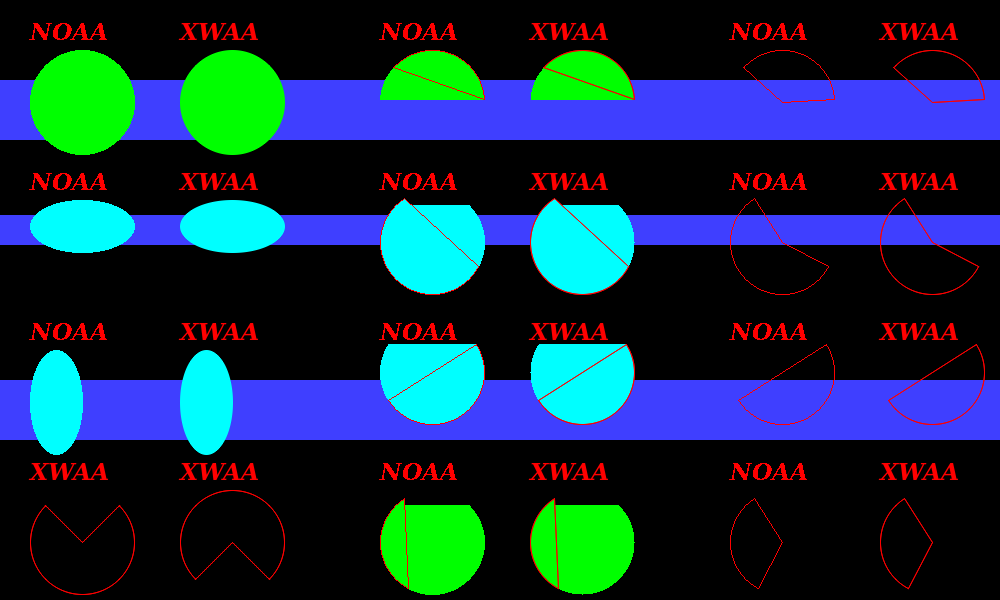
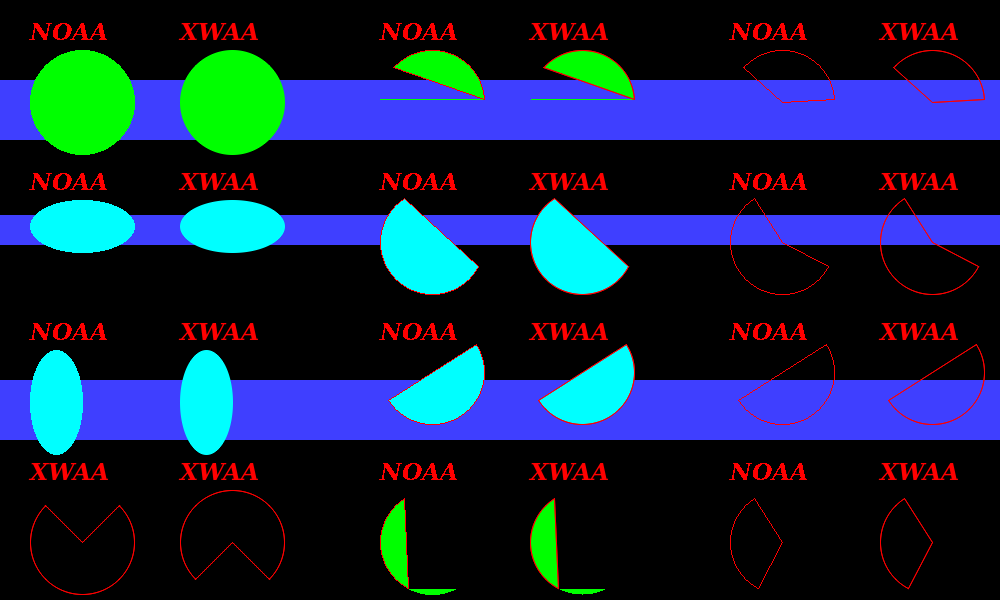
Working on fillArc

diff --git a/src/Pt-Gfx/ImagePainter2_Arc.cpp b/src/Pt-Gfx/ImagePainter2_Arc.cpp
@@ -278,24 +278,26 @@ void ImagePainter2::arcUtil_genScanlinesForChord(FilledArcInfo& fai, XWLineData&
         if( (!xwLine.faceT && !xwLine.faceB) || (xwLine.faceT && yt >= lineMinY) || (xwLine.faceB && yt <= lineMaxY) ) {
             // Crop the coordinates
             XWLineData::XWPoints::iterator lit = xwLine.points.find(yt);
-            Pt::int32_t xlc = xl;
-            Pt::int32_t xrc = xr;
-            if(xwLine.faceL) {
-                if(xwLine.steep) { // (X), (X + 1)
-                    if(xlc < lit->second.x + 1) xlc = lit->second.x + 1;
-                    lit->second.a2 = 0;
+            Pt::int32_t                    xlc = xl;
+            Pt::int32_t                    xrc = xr;
+            if(lit != xwLine.points.end()) {
+                if(xwLine.faceL) {
+                    if(xwLine.steep) { // (X), (X + 1)
+                        if(xlc < lit->second.x + 1) xlc = lit->second.x + 1;
+                        lit->second.a2 = 0;
+                    }
+                    else { // (X)
+                        if(xlc <= lit->second.x) xlc = lit->second.x + 1;
+                    }
                 }
-                else { // (X)
-                    if(xlc <= lit->second.x) xlc = lit->second.x + 1;
-                }
-            }
-            if(xwLine.faceR) {
-                if(xwLine.steep) { // (X), (X + 1)
-                    if(xrc > lit->second.x) xrc = lit->second.x;
-                    lit->second.a1 = 0;
-                }
-                else { // (X)
-                    if(xrc >= lit->second.x) xrc = lit->second.x - 1;
+                if(xwLine.faceR) {
+                    if(xwLine.steep) { // (X), (X + 1)
+                        if(xrc > lit->second.x) xrc = lit->second.x;
+                        lit->second.a1 = 0;
+                    }
+                    else { // (X)
+                        if(xrc >= lit->second.x) xrc = lit->second.x - 1;
+                    }
                 }
             }
             // Store/update the scanline coordinates as needed
@@ -311,13 +313,39 @@ void ImagePainter2::arcUtil_genScanlinesForChord(FilledArcInfo& fai, XWLineData&
             }
         }
         if( (!xwLine.faceT && !xwLine.faceB) || (xwLine.faceT && yb >= lineMinY) || (xwLine.faceB && yb <= lineMaxY) ) {
-            Scanlines::iterator sit = scanlines.find(yb);
-            if(sit == scanlines.end()) { // Insert a new element
-                scanlines.insert( std::make_pair( yb, ScanlineElement(xl, xr) ) );
+            XWLineData::XWPoints::iterator lit = xwLine.points.find(yb);
+            Pt::int32_t                    xlc = xl;
+            Pt::int32_t                    xrc = xr;
+            if(lit != xwLine.points.end()) {
+                if(xwLine.faceL) {
+                    if(xwLine.steep) { // (X), (X + 1)
+                        if(xlc < lit->second.x + 1) xlc = lit->second.x + 1;
+                        lit->second.a2 = 0;
+                    }
+                    else { // (X)
+                        if(xlc <= lit->second.x) xlc = lit->second.x + 1;
+                    }
+                }
+                if(xwLine.faceR) {
+                    if(xwLine.steep) { // (X), (X + 1)
+                        if(xrc > lit->second.x) xrc = lit->second.x;
+                        lit->second.a1 = 0;
+                    }
+                    else { // (X)
+                        if(xrc >= lit->second.x) xrc = lit->second.x - 1;
+                    }
+                }
             }
-            else { // Update the scanline's "from" and "to" coordinates
-                if( xl < sit->second.from ) sit->second.from = xl;
-                if( xr > sit->second.to   ) sit->second.to   = xr;
+            // Store/update the scanline coordinates as needed
+            if(xrc >= xlc) {
+                Scanlines::iterator sit = scanlines.find(yb);
+                if(sit == scanlines.end()) { // Insert a new element
+                    scanlines.insert( std::make_pair( yb, ScanlineElement(xlc, xrc) ) );
+                }
+                else { // Update the scanline's "from" and "to" coordinates
+                    if( xlc < sit->second.from ) sit->second.from = xlc;
+                    if( xrc > sit->second.to   ) sit->second.to   = xrc;
+                }
             }
         }
     }
@@ -332,24 +360,76 @@ void ImagePainter2::arcUtil_genScanlinesForChord(FilledArcInfo& fai, XWLineData&
         const Pt::int32_t xr = fai.ctrX + ( fai.antiAlias ? floor(x) : round(x) );
         // Store/update the scanline coordinates
         if( (!xwLine.faceT && !xwLine.faceB) || (xwLine.faceT && yt >= lineMinY) || (xwLine.faceB && yt <= lineMaxY) ) {
-
-            Scanlines::iterator sit = scanlines.find(yt);
-            if(sit == scanlines.end()) { // Insert a new element
-                scanlines.insert( std::make_pair( yt, ScanlineElement(xl, xr) ) );
+            // Crop the coordinates
+            XWLineData::XWPoints::iterator lit = xwLine.points.find(yt);
+            Pt::int32_t                    xlc = xl;
+            Pt::int32_t                    xrc = xr;
+            if(lit != xwLine.points.end()) {
+                if(xwLine.faceL) {
+                    if(xwLine.steep) { // (X), (X + 1)
+                        if(xlc < lit->second.x + 1) xlc = lit->second.x + 1;
+                        lit->second.a2 = 0;
+                    }
+                    else { // (X)
+                        if(xlc <= lit->second.x) xlc = lit->second.x + 1;
+                    }
+                }
+                if(xwLine.faceR) {
+                    if(xwLine.steep) { // (X), (X + 1)
+                        if(xrc > lit->second.x) xrc = lit->second.x;
+                        lit->second.a1 = 0;
+                    }
+                    else { // (X)
+                        if(xrc >= lit->second.x) xrc = lit->second.x - 1;
+                    }
+                }
             }
-            else { // Update the scanline's "from" and "to" coordinates
-                if( xl < sit->second.from ) sit->second.from = xl;
-                if( xr > sit->second.to   ) sit->second.to   = xr;
+            // Store/update the scanline coordinates as needed
+            if(xrc >= xlc) {
+                Scanlines::iterator sit = scanlines.find(yt);
+                if(sit == scanlines.end()) { // Insert a new element
+                    scanlines.insert( std::make_pair( yt, ScanlineElement(xlc, xrc) ) );
+                }
+                else { // Update the scanline's "from" and "to" coordinates
+                    if( xlc < sit->second.from ) sit->second.from = xlc;
+                    if( xrc > sit->second.to   ) sit->second.to   = xrc;
+                }
             }
         }
         if( (!xwLine.faceT && !xwLine.faceB) || (xwLine.faceT && yb >= lineMinY) || (xwLine.faceB && yb <= lineMaxY) ) {
-            Scanlines::iterator sit = scanlines.find(yb);
-            if(sit == scanlines.end()) { // Insert a new element
-                scanlines.insert( std::make_pair( yb, ScanlineElement(xl, xr) ) );
+            XWLineData::XWPoints::iterator lit = xwLine.points.find(yb);
+            Pt::int32_t                    xlc = xl;
+            Pt::int32_t                    xrc = xr;
+            if(lit != xwLine.points.end()) {
+                if(xwLine.faceL) {
+                    if(xwLine.steep) { // (X), (X + 1)
+                        if(xlc < lit->second.x + 1) xlc = lit->second.x + 1;
+                        lit->second.a2 = 0;
+                    }
+                    else { // (X)
+                        if(xlc <= lit->second.x) xlc = lit->second.x + 1;
+                    }
+                }
+                if(xwLine.faceR) {
+                    if(xwLine.steep) { // (X), (X + 1)
+                        if(xrc > lit->second.x) xrc = lit->second.x;
+                        lit->second.a1 = 0;
+                    }
+                    else { // (X)
+                        if(xrc >= lit->second.x) xrc = lit->second.x - 1;
+                    }
+                }
             }
-            else { // Update the scanline's "from" and "to" coordinates
-                if( xl < sit->second.from ) sit->second.from = xl;
-                if( xr > sit->second.to   ) sit->second.to   = xr;
+            // Store/update the scanline coordinates as needed
+            if(xrc >= xlc) {
+                Scanlines::iterator sit = scanlines.find(yb);
+                if(sit == scanlines.end()) { // Insert a new element
+                    scanlines.insert( std::make_pair( yb, ScanlineElement(xlc, xrc) ) );
+                }
+                else { // Update the scanline's "from" and "to" coordinates
+                    if( xlc < sit->second.from ) sit->second.from = xlc;
+                    if( xrc > sit->second.to   ) sit->second.to   = xrc;
+                }
             }
         }
     }
